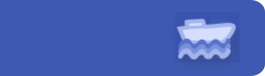
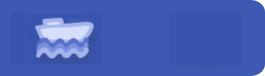
Cambiado Posicionamiento Barra Misión

Changed region(s): [[0.6642, 0.2368, 0.9057, 0.7895], [0.1208, 0.2368, 0.3623, 0.7895]]

diff --git a/src/managers/map_manager.cpp b/src/managers/map_manager.cpp
@@ -713,7 +713,7 @@ vec3d getNodeVec3d(uint16_t nodeId, const std::map<uint16_t, vec3d>& nodes) {
         }
     }
     // Si no se encuentra el nodo, se devuelve un vec3d con valores predeterminados o se maneja el error de alguna otra manera
-    return {0.0f, 0.0f, 0.0f};
+    return { 0.0f, 0.0f, 0.0f };
 }
 void MapManager::generateNavmeshes(EntityManager& em)
 {
@@ -773,7 +773,7 @@ void MapManager::generateNavmeshes(EntityManager& em)
         //Creamos NavMesh BBox
         double scalex{}, scalez{};
 
-        scalex = (max.x() - min.x() );
+        scalex = (max.x() - min.x());
         scalez = (max.z() - min.z());
         BBox b(vecnodes[0], vec3d{ scalex, (max.y() - min.y()) + 0.5, scalez });
         //BBox b{ min,max };
@@ -783,7 +783,7 @@ void MapManager::generateNavmeshes(EntityManager& em)
         //Rellenamos los nodos
         for (auto& n : vecnodes) {
             auto pair = std::make_pair(navs.num_nodes, n);
-            
+
             //si es el centro, se guarda
             if (n.x() == vecnodes[0].x() && n.z() == vecnodes[0].z()) {
                 //Se añade al navinfo
@@ -816,53 +816,53 @@ void MapManager::generateNavmeshes(EntityManager& em)
     }
     // Guardamos info 
     std::vector<Conection> auxconex;
-    auxconex.push_back(Conection{1,27,7});
-    auxconex.push_back(Conection{1,7,26});
-    auxconex.push_back(Conection{1,26,45});
-    auxconex.push_back(Conection{1,45,50});
-    auxconex.push_back(Conection{1,10,26});
-    auxconex.push_back(Conection{1,0,26});
-    auxconex.push_back(Conection{1,44,0});
-    auxconex.push_back(Conection{1,54,50});
-    auxconex.push_back(Conection{1,59,54});
-    auxconex.push_back(Conection{1,98,59});
-    auxconex.push_back(Conection{1,116,98});
-    auxconex.push_back(Conection{1,124,116});
-    auxconex.push_back(Conection{1,123,124});
-    auxconex.push_back(Conection{1,134,123});
-    auxconex.push_back(Conection{1,242,134});
-    auxconex.push_back(Conection{1,468,473});
-    auxconex.push_back(Conection{1,583,572});
-    auxconex.push_back(Conection{1,473,583});
-    auxconex.push_back(Conection{1,637,816});
-    auxconex.push_back(Conection{1,637,639});
-    auxconex.push_back(Conection{1,639,643});
-    auxconex.push_back(Conection{1,643,837});
-    auxconex.push_back(Conection{1,837,846});
-    auxconex.push_back(Conection{1,639,620});
-    auxconex.push_back(Conection{1,620,639});
-    auxconex.push_back(Conection{1,846,895});
-    auxconex.push_back(Conection{1,816,827});
-    auxconex.push_back(Conection{1,822,827});
-    auxconex.push_back(Conection{1,288,297});
-    auxconex.push_back(Conection{1,297,320});
-    auxconex.push_back(Conection{1,320,333});
+    auxconex.push_back(Conection{ 1,27,7 });
+    auxconex.push_back(Conection{ 1,7,26 });
+    auxconex.push_back(Conection{ 1,26,45 });
+    auxconex.push_back(Conection{ 1,45,50 });
+    auxconex.push_back(Conection{ 1,10,26 });
+    auxconex.push_back(Conection{ 1,0,26 });
+    auxconex.push_back(Conection{ 1,44,0 });
+    auxconex.push_back(Conection{ 1,54,50 });
+    auxconex.push_back(Conection{ 1,59,54 });
+    auxconex.push_back(Conection{ 1,98,59 });
+    auxconex.push_back(Conection{ 1,116,98 });
+    auxconex.push_back(Conection{ 1,124,116 });
+    auxconex.push_back(Conection{ 1,123,124 });
+    auxconex.push_back(Conection{ 1,134,123 });
+    auxconex.push_back(Conection{ 1,242,134 });
+    auxconex.push_back(Conection{ 1,468,473 });
+    auxconex.push_back(Conection{ 1,583,572 });
+    auxconex.push_back(Conection{ 1,473,583 });
+    auxconex.push_back(Conection{ 1,637,816 });
+    auxconex.push_back(Conection{ 1,637,639 });
+    auxconex.push_back(Conection{ 1,639,643 });
+    auxconex.push_back(Conection{ 1,643,837 });
+    auxconex.push_back(Conection{ 1,837,846 });
+    auxconex.push_back(Conection{ 1,639,620 });
+    auxconex.push_back(Conection{ 1,620,639 });
+    auxconex.push_back(Conection{ 1,846,895 });
+    auxconex.push_back(Conection{ 1,816,827 });
+    auxconex.push_back(Conection{ 1,822,827 });
+    auxconex.push_back(Conection{ 1,288,297 });
+    auxconex.push_back(Conection{ 1,297,320 });
+    auxconex.push_back(Conection{ 1,320,333 });
 
-    for(auto& c: auxconex){
+    for (auto& c : auxconex) {
         navs.conexiones.push_back(c);
         //debug
-        auto pair = std::make_pair(getNodeVec3d(c.fromNode,navs.nodes),getNodeVec3d(c.toNode,navs.nodes));
+        auto pair = std::make_pair(getNodeVec3d(c.fromNode, navs.nodes), getNodeVec3d(c.toNode, navs.nodes));
         navs.conexpos.insert(pair);
         //nodes
-        for(auto& [n,vec] : navs.nodes){
+        for (auto& [n, vec] : navs.nodes) {
             // if(n == 583){
             //     vec = vec3d{vec.x(),vec.y(),vec.z()+10.0};
             // }
-            if(n == c.toNode){
-                navs.selectednodes.insert(std::make_pair(n,vec));
+            if (n == c.toNode) {
+                navs.selectednodes.insert(std::make_pair(n, vec));
             }
-            if(n == c.fromNode){
-                navs.selectednodes.insert(std::make_pair(n,vec));
+            if (n == c.fromNode) {
+                navs.selectednodes.insert(std::make_pair(n, vec));
             }
         }
     }

diff --git a/src/systems/render_system.cpp b/src/systems/render_system.cpp
@@ -164,6 +164,7 @@ void RenderSystem::drawControls(EntityManager& em, GameEngine& engine)
     if (inpi.interact)
     {
         li.currentScreen = li.previousScreen;
+        li.previousScreen = li.evenMorePreviousScreen;
         inpi.interact = false;
     }
 
@@ -261,6 +262,7 @@ void RenderSystem::drawOptions(GameEngine& engine, EntityManager& em, SoundSyste
             case 5: // "Volumen"
                 break;
             case 6: // "CONTROLES"
+                li.evenMorePreviousScreen = li.previousScreen;
                 li.currentScreen = GameScreen::CONTROLS;
                 li.previousScreen = GameScreen::OPTIONS;
                 break;
@@ -1793,13 +1795,10 @@ void RenderSystem::drawHUD(EntityManager& em, GameEngine& engine, bool debugphy)
                 drawHealthBar(engine, em, e);
             }
 
-            // Dibujamos la cantidad de mana restante del player en el HUD
-            drawManaBar(engine, em);
-
             // Dibujamos el número de monedas en pantalla
             drawCoinBar(engine, em);
 
-            drawFPSCounter(engine);
+            // drawFPSCounter(engine);
 
             // Dibujar el bastón
             drawStaff(engine, em);
@@ -1809,7 +1808,7 @@ void RenderSystem::drawHUD(EntityManager& em, GameEngine& engine, bool debugphy)
 
             drawAnimatedTextures(engine);
 
-            if (li.mapID == 2 && li.volcanoMission)
+            if (li.mapID == 2)
                 drawBoatParts(engine, em);
 
             // Dibujar el tipo de ataque que tiene equipado
@@ -2701,6 +2700,9 @@ void RenderSystem::drawSpellSlots(GameEngine& engine, EntityManager& em)
 
     if (!plfi.spells.empty())
     {
+        // Dibujamos la cantidad de mana restante del player en el HUD
+        drawManaBar(engine, em);
+
         std::map<std::size_t, std::pair<int, int>> spellPositions = {
             {0, {engine.getScreenWidth() - 280, 20}},
             {1, {engine.getScreenWidth() - 210, 125}},
@@ -3052,9 +3054,10 @@ void RenderSystem::drawBoatParts(GameEngine& ge, EntityManager& em)
     auto& textureNum = ge.textures.at(std::to_string(plfi.boatParts.size()));
     auto& texture4 = ge.textures.at("4");
     auto& textureBar = ge.textures.at("barra");
+    int offSetX = 105;
 
     // Dibujamos el num / 4
-    ge.drawTexture(textureNum, posX + 35, posY + 2, { 255, 255, 255, 255 });
-    ge.drawTexture(textureBar, posX + 20 + textureNum.width / 2, posY + 2, { 255, 255, 255, 255 });
-    ge.drawTexture(texture4, posX + 25 + textureNum.width / 2 + textureBar.width / 2, posY + 20, { 255, 255, 255, 255 });
+    ge.drawTexture(textureNum, posX + offSetX, posY + 2, { 255, 255, 255, 255 });
+    ge.drawTexture(textureBar, posX + (offSetX - 15) + textureNum.width / 2, posY + 2, { 255, 255, 255, 255 });
+    ge.drawTexture(texture4, posX + (offSetX - 10) + textureNum.width / 2 + textureBar.width / 2, posY + 20, { 255, 255, 255, 255 });
 }

diff --git a/src/managers/game.cpp b/src/managers/game.cpp
@@ -40,7 +40,7 @@ void Game::createEntities()
 {
     auto& plfi = em.getSingleton<PlayerInfo>();
     if (plfi.spawnPoint == vec3d::zero())
-        plfi.spawnPoint = { -7.55, 40.0, 16.0 };
+        plfi.spawnPoint = { -95.0, 22.0, -135.0 };
 
     // 33.0, 4.0, -25.9 - Posición Incial
     // 32.0, 4.0, 43.0 - Primer cofre
@@ -183,6 +183,8 @@ void Game::run()
                 currentTime = 0;
             }
             render_system.drawLogoKaiwa(engine);
+            if (li.playerID == li.max)
+                createEntities();
             break;
         }
 
@@ -193,7 +195,10 @@ void Game::run()
                 sound_system.playMusicMenu();
                 sound_system.music_started = true;
             }
+            input_system.update(em, engine);
             render_system.drawLogoGame(engine, em, sound_system);
+            if (li.playerID == li.max)
+                createEntities();
             break;
         }
 
@@ -230,9 +235,6 @@ void Game::run()
 
             if (li.replay)
                 gami.update();
-
-            if (li.playerID == li.max)
-                createEntities();
 
             // TODO - Cuando se implemente el sistema de guardado, cargar el nivel en el que se quedó
             if (!map.isComplete())

diff --git a/src/systems/life_system.cpp b/src/systems/life_system.cpp
@@ -87,7 +87,7 @@ void LifeSystem::update(EntityManager& em, ObjectSystem& os) {
             }
             //si es un golem
             if (ent.hasTag<GolemTag>()) {
-                if (!lif.decreaseNextFrame){
+                if (!lif.decreaseNextFrame) {
                     lif.decreaseNextFrame = true;
                     em.getSingleton<SoundSystem>().sonido_golem_muere();
                 }
@@ -99,7 +99,7 @@ void LifeSystem::update(EntityManager& em, ObjectSystem& os) {
             }
 
             //si es un snowman
-            if (ent.hasTag<SnowmanTag>()){
+            if (ent.hasTag<SnowmanTag>()) {
                 if (!lif.decreaseNextFrame)
                     em.getSingleton<SoundSystem>().sonido_munyeco_muere();
             }

diff --git a/src/systems/zone_system.cpp b/src/systems/zone_system.cpp
@@ -36,13 +36,12 @@ void ZoneSystem::update(EntityManager& em, ENGI::GameEngine&, Ia_man& iam, Event
                     {
                         map.changeMap(em, 2, iam);
                         li.transition = true;
-                        // em.getSingleton<SoundSystem>().ambient_stop();
-                        em.getSingleton<SoundSystem>().update();
 
                         auto& plfi = em.getSingleton<PlayerInfo>();
                         vec3d spawnPoint = { -28.0, 49.0, -30.0 };
                         plfi.spawnPoint = spawnPoint;
                         p.position = spawnPoint;
+                        em.getSingleton<SoundSystem>().update();
                         break;
                     }
                     case 2:

diff --git a/src/systems/particle_system.cpp b/src/systems/particle_system.cpp
@@ -12,7 +12,8 @@ void ParticleSystem::update(EntityManager& em)
     { Effects::PURPLEM, { { 1.0f, 0.0001f, 1.0f }, { {128, 0, 0, 255} } } },
     { Effects::LAVA, { { 5.0f, 0.01f, 15.0f }, {{255, 0, 0, 255}, {156, 50, 52, 255}, { 130, 129, 129, 255 }} } },
     { Effects::WATER, { { 2.0f, -0.5f, 2.0f }, { {0, 0, 255, 255} } } },
-    { Effects::FIREBALL, { { 2.0f, 0.5f, 2.0f }, { {255, 0, 0, 255}, {130, 129, 129, 255} } } }
+    { Effects::FIREBALL, { { 2.0f, 0.5f, 2.0f }, { {255, 0, 0, 255}, {130, 129, 129, 255} } } },
+    { Effects::OBJECT, { { 1.0f, 0.2f, 1.0f }, {  {255, 215, 0, 255}, { 255, 119, 0, 255 } } } }
     };
 
     // La parte del motor gráfico será poder colocar puntos de luz desde donde se generen las partículas sjsjsj

diff --git a/src/systems/object_system.cpp b/src/systems/object_system.cpp
@@ -316,6 +316,8 @@ void ObjectSystem::createObjects(EntityManager& em)
         auto& p = em.addComponent<PhysicsComponent>(e, PhysicsComponent{ .position{ r.position }, .scale = r.scale });
         em.addComponent<ColliderComponent>(e, ColliderComponent{ p.position, r.scale, BehaviorType::STATIC });
         em.addComponent<ObjectComponent>(e, ObjectComponent{ .type = obj, .inmortal = inmortal });
+        if (visible)
+            em.addComponent<ParticleMakerComponent>(e, ParticleMakerComponent{ .active = true, .effect = Effects::OBJECT, .maxParticles = 6, .spawnRate = 0.1f, .lifeTime = 0.4f });
     }
 
     // Limpiamos el vector

diff --git a/src/utils/sngtn/level_info.hpp b/src/utils/sngtn/level_info.hpp
@@ -79,10 +79,10 @@ struct LevelInfo
     // Variables de debug
     bool debugIA2{ false };
     bool resetGame{ false };
-    
+
     //grafo referencia
     Graph level_graph{};
-    
+
     // Variables de zona y el nivel
     uint16_t num_zone{};
     uint8_t mapID{ 0 };
@@ -106,6 +106,7 @@ struct LevelInfo
     // Estado del juego
     GameScreen currentScreen = GameScreen::GAMEPLAY;
     GameScreen previousScreen = GameScreen::LOGO;
+    GameScreen evenMorePreviousScreen = GameScreen::LOGO;
 
     bool isCharging()
     {

diff --git a/src/components/particle_component.hpp b/src/components/particle_component.hpp
@@ -20,7 +20,7 @@ struct Particle
 
 struct ParticleMakerComponent
 {
-    enum struct ParticleEffect { FIRE, FIREBALL, SPARKLES, LAVA, CHEST, LEVER, SPARKS, WATER, SMOKE, DUST, PURPLEM, MAX };
+    enum struct ParticleEffect { FIRE, FIREBALL, SPARKLES, LAVA, CHEST, LEVER, SPARKS, WATER, SMOKE, OBJECT, PURPLEM, MAX };
 
     bool active{ false };
     ParticleEffect effect{ ParticleEffect::CHEST };

diff --git a/src/utils/sngtn/player_info.hpp b/src/utils/sngtn/player_info.hpp
@@ -157,7 +157,7 @@ struct PlayerInfo
         inventory.clear();
         spells.clear();
         increaseLife = 0.0;
-        armor = max_armor;
+        armor = 0;
         coins = 0;
         bombs = 0;
         max_mana = 100.0;
